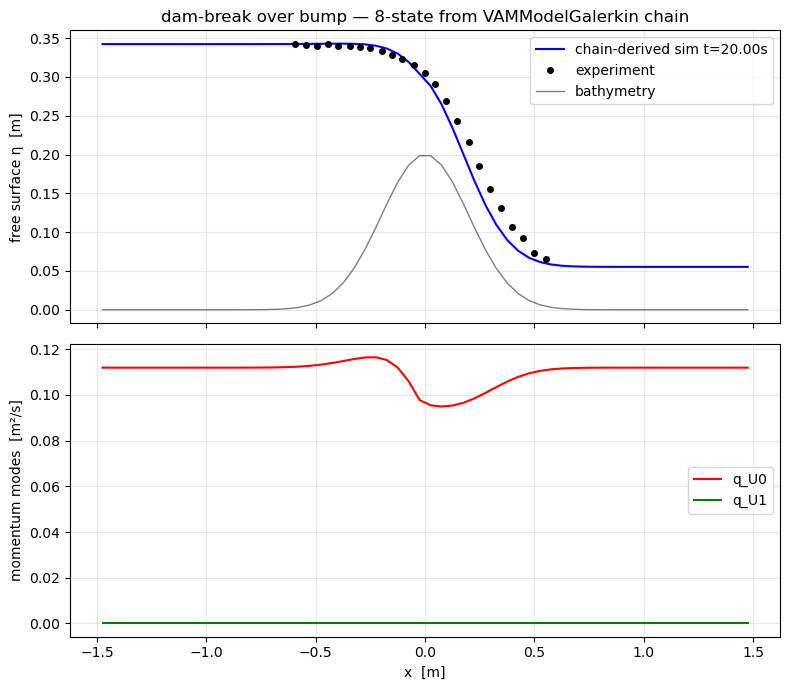
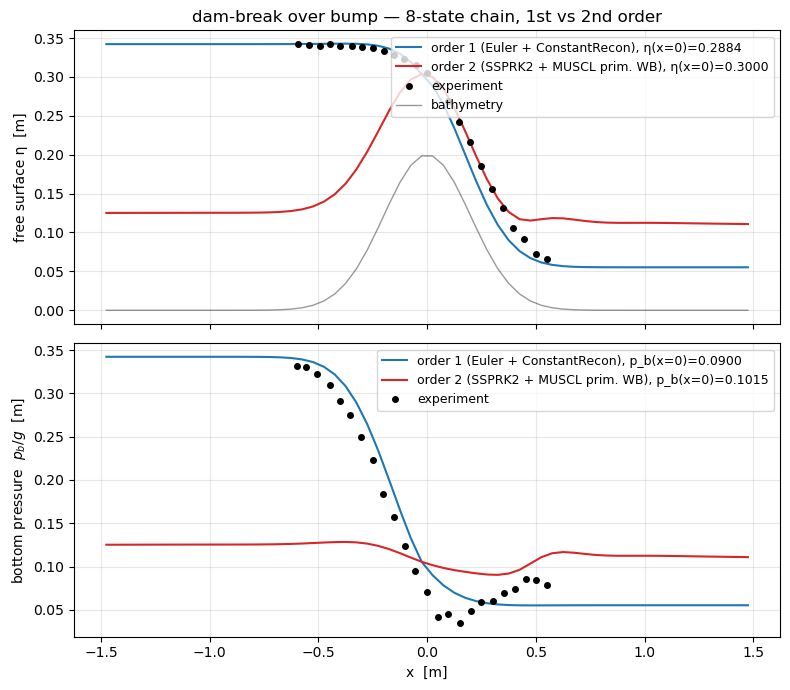
vam_chorin_bump_8state_chain: plot bottom pressure vs experiment in 2nd row
Second-row of the dam-break-over-bump plot now shows the bottom
pressure ``p_b/g = h + 2·P_1/g`` (m-head equivalent) for both 1st
and 2nd order runs, overlaid against the digitized experimental
measurements from Escalante 2024
(``library/zoomy_tests/zoomy_tests/swashes/plots_paper.py:23-26``).
The earlier q_U0/q_U1 momentum-mode plot didn't have a
corresponding experimental dataset; pressure is the natural second
metric to compare against the bench data, especially because the
sub-hydrostatic dip behind the bump is the signature feature the
non-hydrostatic VAM closure is meant to capture.

diff --git a/tutorials/vam/vam_chorin_bump_8state_chain.py b/tutorials/vam/vam_chorin_bump_8state_chain.py
@@ -403,7 +403,34 @@ ETA_EXP_Y = np.array([
     0.0918918918918919, 0.07297297297297298, 0.06554054054054054,
 ])
 
+# Experimental bottom pressure (m-head equivalent), digitized from the
+# Escalante 2024 paper.  Source:
+# ``library/zoomy_tests/zoomy_tests/swashes/plots_paper.py::vam_analytical_p``.
+PB_EXP_X = np.array([
+    -0.6001390820584145, -0.5556328233657858, -0.5041724617524339,
+    -0.4485396383866481, -0.3998609179415855, -0.35396383866481224,
+    -0.30389429763560505, -0.24965229485396384, -0.2051460361613352,
+    -0.15229485396383868, -0.1008344923504868, -0.05354659248956889,
+    -0.0006954102920723737, 0.0521557719054242, 0.09805285118219742,
+    0.15090403337969394, 0.20236439499304582, 0.24826147426981915,
+    0.30111265646731566, 0.3539638386648122, 0.4026425591098748,
+    0.45271210013908203, 0.5013908205841446, 0.5514603616133518,
+])
+PB_EXP_Y = np.array([
+    0.3319327731092437, 0.33053221288515405, 0.32212885154061627,
+    0.30952380952380953, 0.29061624649859946, 0.27450980392156865,
+    0.25, 0.22338935574229693, 0.18417366946778713,
+    0.15756302521008403, 0.12394957983193278, 0.09453781512605042,
+    0.0700280112044818, 0.04201680672268908, 0.04481792717086835,
+    0.03431372549019608, 0.04831932773109244, 0.058823529411764705,
+    0.06022408963585434, 0.06932773109243698, 0.0742296918767507,
+    0.0861344537815126, 0.08473389355742297, 0.07913165266106442,
+])
+
+G = 9.81
+
 fig, ax = plt.subplots(2, 1, figsize=(8, 7), sharex=True)
+P_1_state_idx = [str(s) for s in sm.state].index("P_1")
 for label, color, res in (
     ("order 1 (Euler + ConstantRecon)",       "C0", result_o1),
     ("order 2 (SSPRK2 + MUSCL prim. WB)",      "C3", result_o2),
@@ -414,10 +441,15 @@ for label, color, res in (
     Q = solver._sim_Q
     eta = Q[0] + Q[b_state_idx]
     eta_at_0 = eta[len(eta) // 2]
+    # Bottom pressure as m-head:  p_b = (g·h + 2·P_1) / g  = h + 2·P_1/g.
+    pb = Q[0] + 2.0 * Q[P_1_state_idx] / G
+    pb_at_0 = pb[len(pb) // 2]
     ax[0].plot(xc, eta, color=color, lw=1.5,
                label=f"{label}, η(x=0)={eta_at_0:.4f}")
-    ax[1].plot(xc, Q[1], color=color, lw=1.5, label=f"{label}: q_U0")
+    ax[1].plot(xc, pb, color=color, lw=1.5,
+               label=f"{label}, p_b(x=0)={pb_at_0:.4f}")
 ax[0].plot(ETA_EXP_X, ETA_EXP_Y, "ko", ms=4, label="experiment")
+ax[1].plot(PB_EXP_X, PB_EXP_Y, "ko", ms=4, label="experiment")
 if result_o1 is not None:
     ax[0].plot(result_o1[1], result_o1[2], "k-", lw=1.0, alpha=0.4,
                label="bathymetry")
@@ -425,7 +457,7 @@ ax[0].set_ylabel("free surface η  [m]")
 ax[0].set_title("dam-break over bump — 8-state chain, 1st vs 2nd order")
 ax[0].legend(fontsize=9); ax[0].grid(True, alpha=0.3)
 ax[1].set_xlabel("x  [m]")
-ax[1].set_ylabel("q_U0  [m²/s]")
+ax[1].set_ylabel(r"bottom pressure  $p_b / g$  [m]")
 ax[1].legend(fontsize=9); ax[1].grid(True, alpha=0.3)
 plt.tight_layout()
 plt.savefig("dam_break_8state_chain.png", dpi=100, bbox_inches="tight")
